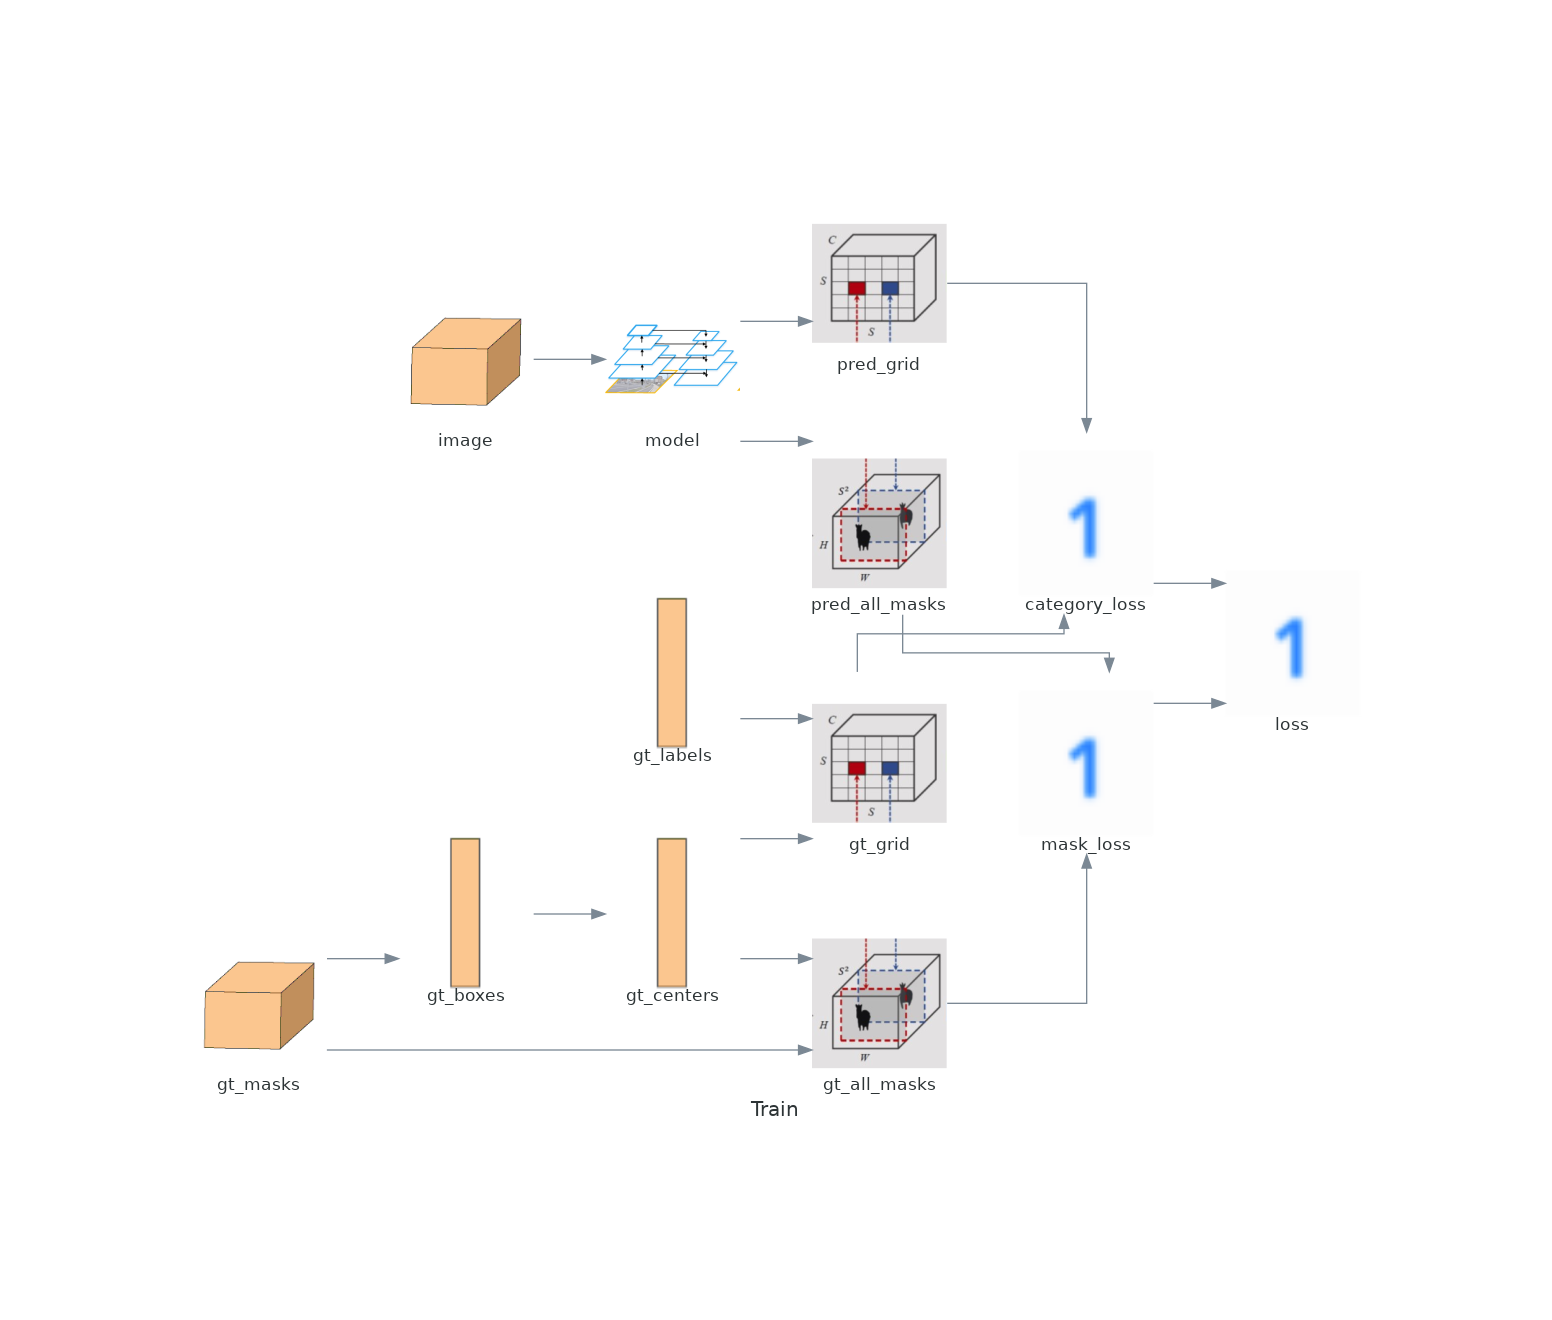
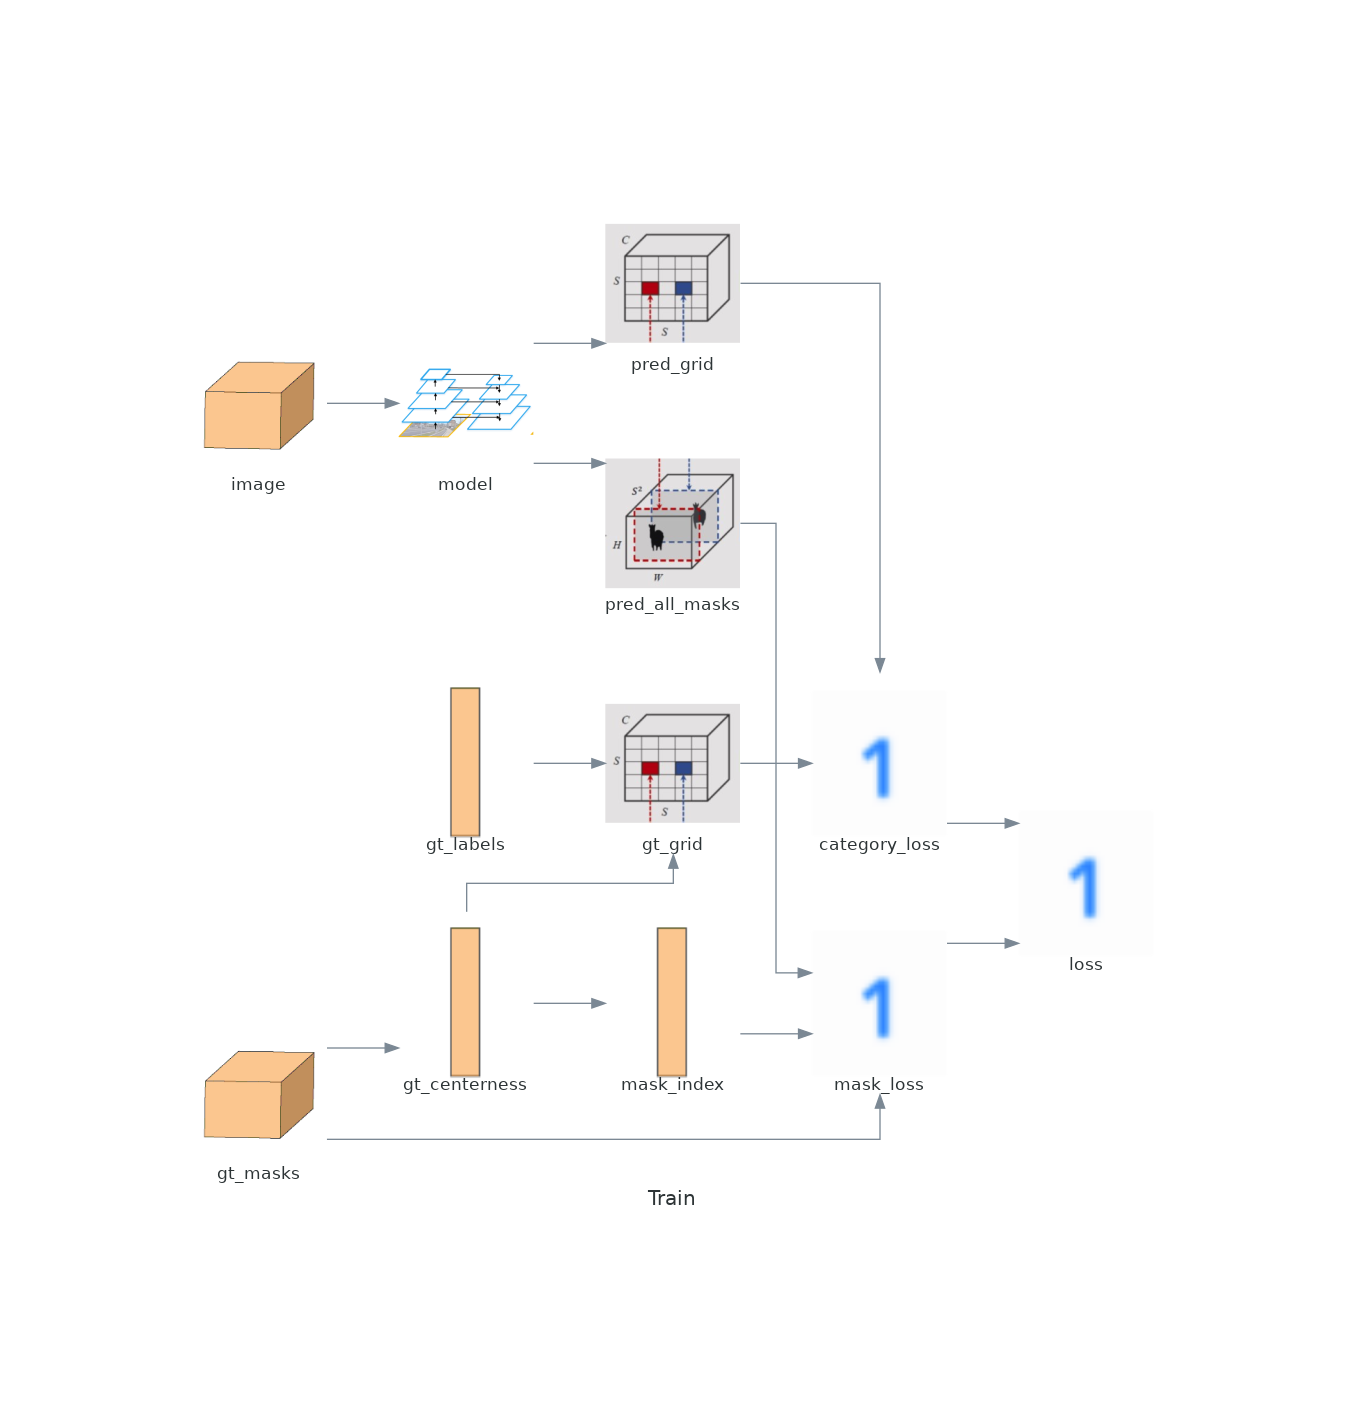
train flow

diff --git a/cellseg/solo/adaptors.py b/cellseg/solo/adaptors.py
@@ -1,0 +1,93 @@
+import torch
+from torch import Tensor
+from typing import Optional
+from torchvision.ops import masks_to_boxes, box_convert
+
+
+def grid(h: int, w: int, dtype: Optional[torch.dtype] = None) -> tuple[Tensor, Tensor]:
+    grid_y, grid_x = torch.meshgrid(  # type:ignore
+        torch.arange(h, dtype=dtype),
+        torch.arange(w, dtype=dtype),
+    )
+    return (grid_y, grid_x)
+
+
+class MasksToCenters:
+    def __call__(
+        self,
+        masks: Tensor,
+    ) -> Tensor:
+        boxes = masks_to_boxes(masks)
+        return box_convert(boxes, in_fmt="xyxy", out_fmt="cxcywh")[:, :2]
+
+
+class CentersToGridIndex:
+    def __init__(
+        self,
+        grid_size: int,
+    ) -> None:
+        self.grid_size = grid_size
+
+    def __call__(
+        self,
+        centers: Tensor,
+    ) -> Tensor:
+        return (centers[:, 1] * self.grid_size + centers[:, 0]).long()
+
+
+class ToCategoryGrid:
+    def __init__(
+        self,
+        num_classes: int,
+        grid_size: int,
+    ) -> None:
+        self.num_classes = num_classes
+        self.grid_size = grid_size
+        self.to_index = CentersToGridIndex(self.grid_size)
+
+    def __call__(
+        self,
+        centers: Tensor,
+        labels: Tensor,
+    ) -> tuple[Tensor, Tensor]:  # category_grid, mask_index
+        device = centers.device
+        cagetory_grid = torch.zeros(
+            self.num_classes, self.grid_size, self.grid_size, dtype=torch.float32
+        ).to(device)
+        mask_index = self.to_index(centers)
+        index = labels * self.grid_size ** 2 + mask_index
+        flattend = cagetory_grid.view(-1)
+        flattend[index.long()] = 1
+        cagetory_grid = flattend.view(self.num_classes, self.grid_size, self.grid_size)
+        return cagetory_grid, mask_index
+
+
+class BatchAdaptor:
+    def __init__(
+        self,
+        num_classes: int,
+        grid_size: int,
+        original_size: int,
+    ) -> None:
+        self.grid_size = grid_size
+        self.to_category_grid = ToCategoryGrid(
+            grid_size=grid_size,
+            num_classes=num_classes,
+        )
+        self.scale = grid_size / original_size
+        self.masks_to_centers = MasksToCenters()
+
+    def __call__(
+        self,
+        mask_batch: list[Tensor],
+        label_batch: list[Tensor],
+    ) -> list[tuple[Tensor, Tensor]]:  # grid, masks, positive_index
+        batch = []
+        for masks, labels in zip(mask_batch, label_batch):
+            scaled_centers = self.masks_to_centers(masks) * self.scale
+            category_grid, mask_index = self.to_cagetory_grid(
+                centers=scaled_centers,
+                labels=labels,
+            )
+            batch.append(category_grid, masks)
+        return batch

diff --git a/diagram.py b/diagram.py
@@ -1,5 +1,4 @@
-from diagrams import Diagram
-from diagrams import Cluster
+from diagrams import Diagram, Cluster, Edge
 from diagrams.custom import Custom
 
 Tensor1D = lambda x: Custom(x, "./img/1d.png")
@@ -12,16 +11,15 @@ FPN = lambda x: Custom(x, "./img/fpn.png")
 
 Scalar = lambda x: Custom(x, "./img/scalar.png")
 with Diagram("Train", show=False):
-    gt_boxes = Tensor1D("gt_boxes")
     gt_masks = Tensor3D("gt_masks")
-    gt_centers = Tensor1D("gt_centers")
+    gt_centerness = Tensor1D("gt_centerness")
     gt_labels = Tensor1D("gt_labels")
     loss = Scalar("loss")
 
+    mask_index = Tensor1D("mask_index")
+
     image = Tensor3D("image")
     gt_grid = CategoryGrid("gt_grid")
-
-    gt_all_masks = InsntanceMasks("gt_all_masks")
 
     category_loss = Scalar("category_loss")
     mask_loss = Scalar("mask_loss")
@@ -31,10 +29,10 @@ with Diagram("Train", show=False):
     pred_all_masks = InsntanceMasks("pred_all_masks")
 
     gt_labels >> gt_grid
-    gt_masks >> gt_boxes >> gt_centers >> gt_grid
-    [gt_centers, gt_masks] >> gt_all_masks
+    gt_masks >> gt_centerness >> gt_grid
     image >> model >> pred_grid
     model >> pred_all_masks
-    [pred_all_masks, gt_all_masks] >> mask_loss
+    gt_centerness >> mask_index
+    [pred_all_masks, gt_masks, mask_index] >> mask_loss
     [pred_grid, gt_grid] >> category_loss
     [mask_loss, category_loss] >> loss

diff --git a/tests/solo/test_adaptors.py b/tests/solo/test_adaptors.py
@@ -1,0 +1,57 @@
+import torch.nn as nn
+from torch import Tensor
+import os
+import torch
+import torch.nn.functional as F
+from cellseg.config import ROOT_PATH
+from cellseg.solo.adaptors import (
+    ToCategoryGrid,
+    MasksToCenters,
+    CentersToGridIndex,
+)
+from cellseg.data import draw_save
+
+
+def test_center_to_grid_index() -> None:
+    centers = Tensor(
+        [
+            [
+                2,
+                1,
+            ],
+        ]
+    )
+    index = CentersToGridIndex(grid_size=64)(centers)
+    assert index.dtype == torch.long
+    assert index[0] == 2 * 64 + 1
+
+
+def test_category_adaptor() -> None:
+    centers = Tensor(
+        [
+            [
+                1,
+                2,
+            ],
+            [
+                2,
+                2,
+            ],
+        ]
+    )
+    labels = torch.zeros(len(centers))
+    grid_size = 8
+    num_classes = 1
+    to_grid = ToCategoryGrid(
+        num_classes=num_classes,
+        grid_size=grid_size,
+    )
+    category_grid, mask_index = to_grid(
+        centers=centers,
+        labels=labels,
+    )
+    assert category_grid.shape == (num_classes, grid_size, grid_size)
+    assert category_grid.sum() == len(centers)
+    assert category_grid[0, 2, 2] == 1
+    assert category_grid[0, 2, 1] == 1
+    assert mask_index.tolist() == [17, 18]
